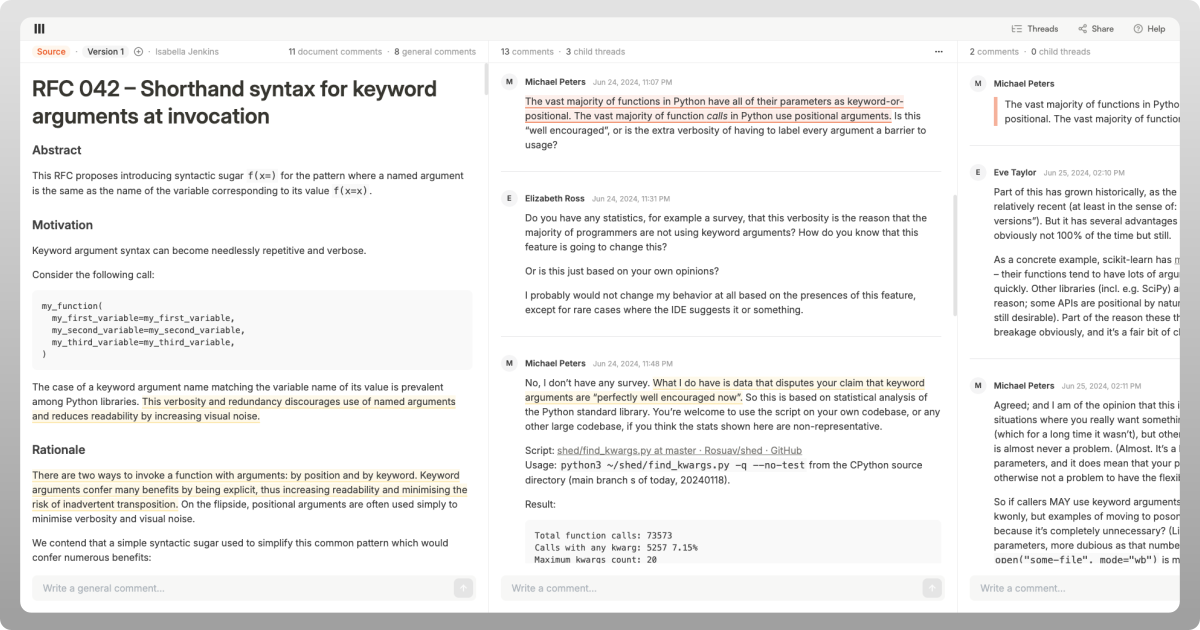
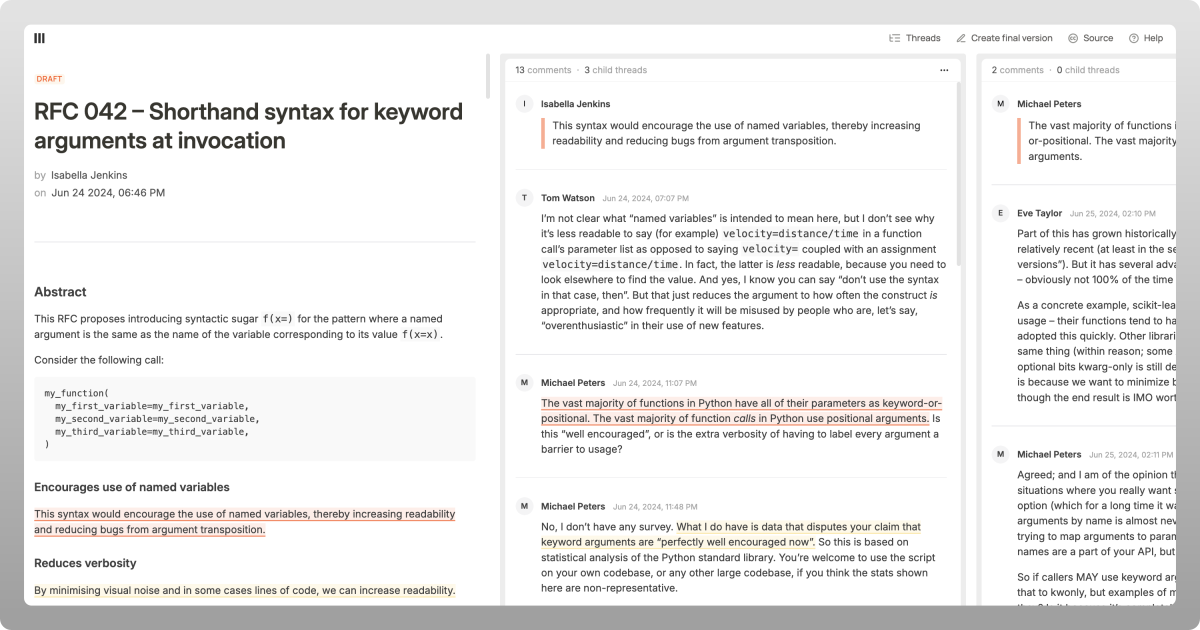
chore: update help and meta image

diff --git a/src/components/app-top-nav.tsx b/src/components/app-top-nav.tsx
@@ -337,9 +337,9 @@ const AppTopNav = () => {
                         a trackpad or using your mouse's scroll wheel with the
                         shift key. You can also use the "Threads" tree from the
                         navigation bar to quickly go to a particular thread. The
-                        tree also shows the number of comments in a thread, the
-                        number of unread comments and whether the thread has
-                        been resolved or not.
+                        tree also tells you the number of comments in a thread,
+                        unread comments if any and whether the thread has been
+                        resolved or not.
                       </div>
                       <div className="mt-3 rounded-sm bg-neutral-50 p-4">
                         <span className="mb-2 block font-medium text-neutral-800">
@@ -347,20 +347,22 @@ const AppTopNav = () => {
                         </span>
                         When a discussion on a thread is complete, it can be
                         resolved to make it easier to find threads that need to
-                        be addressed. You can resolve a thread both with and
+                        be addressed. You can resolve a thread both with or
                         without a new comment using the options in the thread's
                         menu.
                       </div>
                       <div className="mt-3 rounded-sm bg-neutral-50 p-4">
                         <span className="mb-2 block font-medium text-neutral-800">
-                          Document versions
+                          Final version
                         </span>
-                        After the discussion is over, click the "+" button in
-                        the top left of the document to create a new version for
-                        the document. Update the document with the changes and
-                        click on "Publish" to publish the new version. You can
-                        also export the new version in Markdown using the
-                        "Export" button.
+                        After the discussion is over, click the "Create final
+                        version" button in navigation bar to create the final
+                        version for the document. Update the document with the
+                        changes. Use the "Show draft" button to see the draft
+                        version along with the comments if needed. Once done,
+                        click the "Publish" button at the bottom to publish the
+                        new version. You can also export the new version in
+                        Markdown using the "Export" button.
                       </div>
                     </div>
                   )}

diff --git a/src/app/(home)/layout.tsx b/src/app/(home)/layout.tsx
@@ -8,12 +8,12 @@ import "./../globals.css";
 export const metadata: Metadata = {
   title: "CQ2 — Tool for RFCs",
   description:
-    "Meet CQ2. An open-source, self-hostable tool for RFCs, designed for thoughtfulness and coherence. CQ2 offers a better way to discuss RFCs.",
+    "Meet CQ2. An open-source, self-hostable tool for RFCs, designed for thoughtfulness and coherence. CQ2 is under active development, and is currently in alpha.",
   metadataBase: new URL("https://cq2.co"),
   openGraph: {
     title: "CQ2 — Tool for RFCs",
     description:
-      "Meet CQ2. An open-source, self-hostable tool for RFCs, designed for thoughtfulness and coherence. CQ2 offers a better way to discuss RFCs.",
+      "Meet CQ2. An open-source, self-hostable tool for RFCs, designed for thoughtfulness and coherence. CQ2 is under active development, and is currently in alpha.",
     url: "https://cq2.co",
     siteName: "CQ2",
     locale: "en_US",
@@ -24,7 +24,7 @@ export const metadata: Metadata = {
     card: "summary_large_image",
     title: "CQ2 — Tool for RFCs",
     description:
-      "Meet CQ2. An open-source, self-hostable tool for RFCs, designed for thoughtfulness and coherence. CQ2 offers a better way to discuss RFCs.",
+      "Meet CQ2. An open-source, self-hostable tool for RFCs, designed for thoughtfulness and coherence. CQ2 is under active development, and is currently in alpha.",
     site: "@cq2_co",
     images: "https://cq2.co/meta.png",
   },
